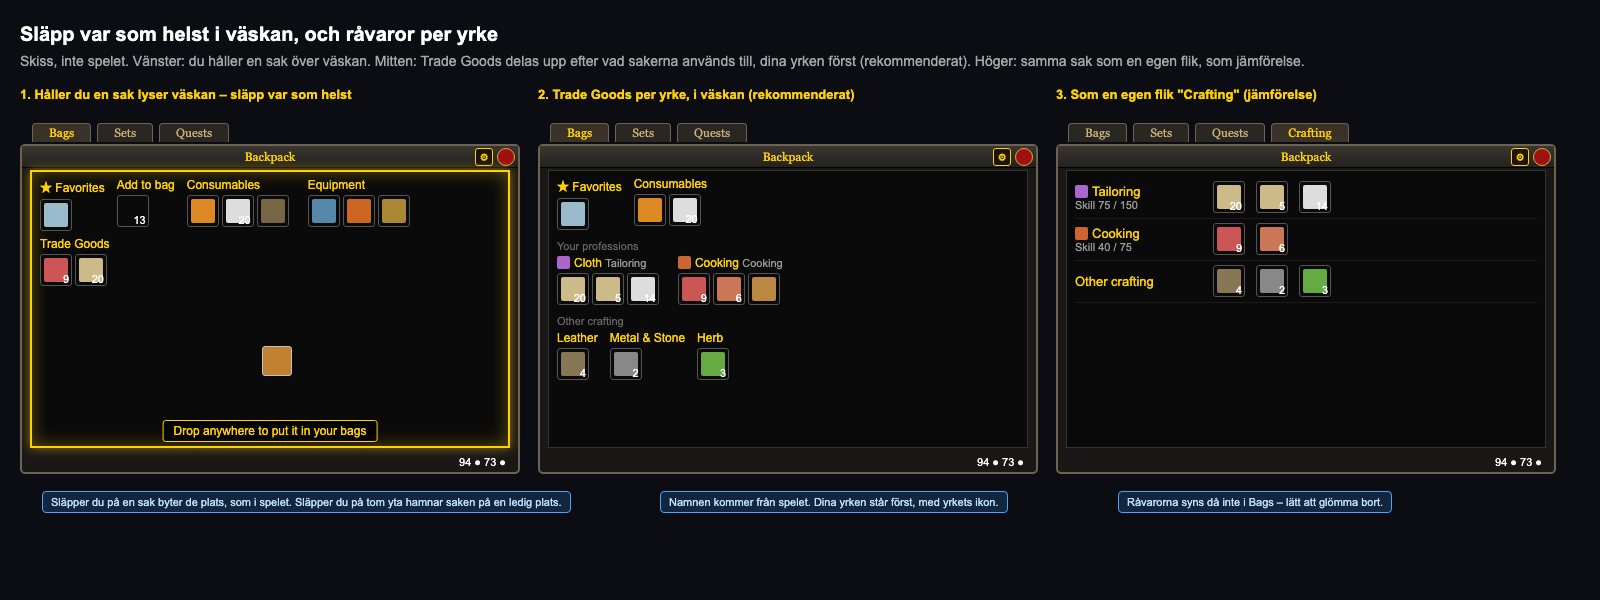
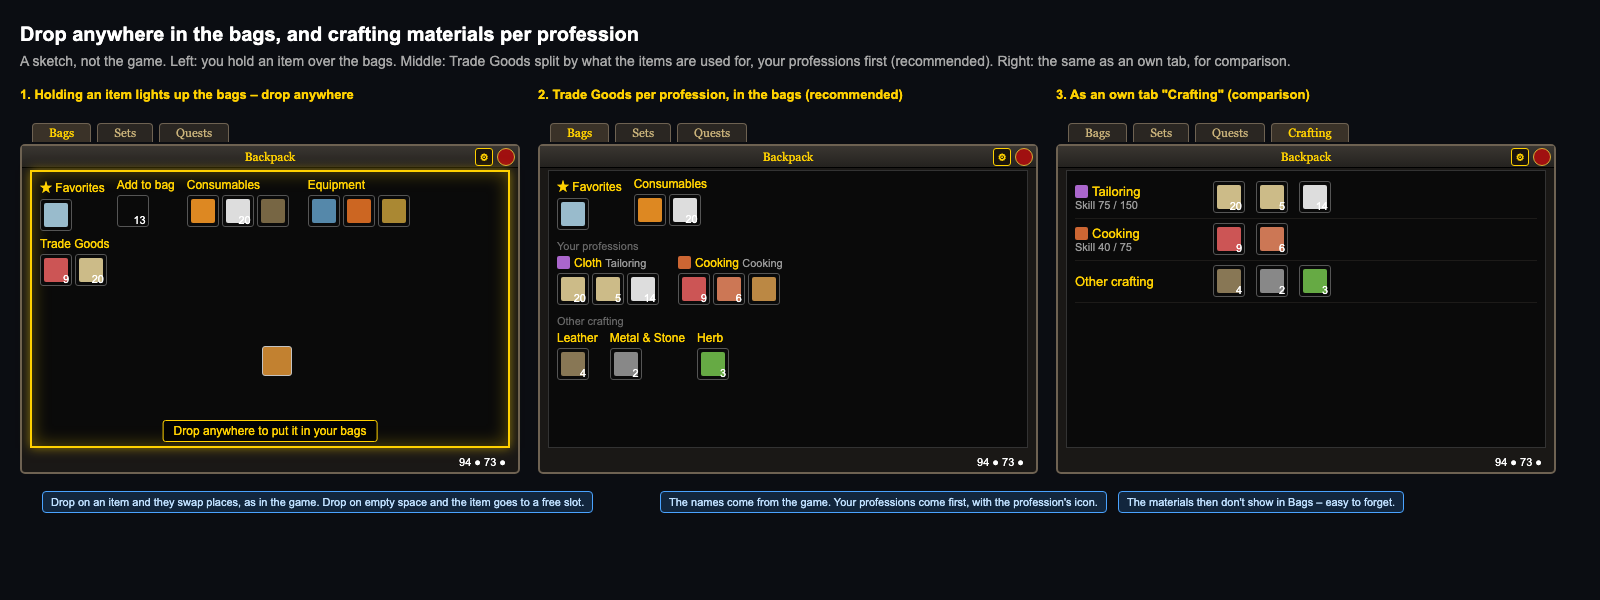
Translate .design/sketch-drop-and-crafting to English (#7)

diff --git a/.design/sketch-drop-and-crafting.html b/.design/sketch-drop-and-crafting.html
@@ -1,4 +1,4 @@
-<!DOCTYPE html><html><head><meta charset="utf-8"><title>Tidy Pack – skiss: släpp var som helst och yrken</title>
+<!DOCTYPE html><html><head><meta charset="utf-8"><title>Tidy Pack – sketch: drop anywhere and professions</title>
 <style>
 *{box-sizing:border-box}body{margin:0;padding:20px;background:#0b0d12;color:#d8d8d8;font:14px/1.4 Arial,sans-serif;width:1560px}
 h1{font-size:20px;margin:0 0 4px;color:#fff}.n{color:#a8a8a8;margin:0 0 14px;max-width:1450px}
@@ -20,11 +20,11 @@ h1{font-size:20px;margin:0 0 4px;color:#fff}.n{color:#a8a8a8;margin:0 0 14px;max
 .sep{color:#666;font:11px Arial;margin:4px 0 4px}
 .rowp{display:flex;align-items:center;gap:8px;height:42px;border-bottom:1px solid #1d1b19}.rowp .nm{font:13px Arial;color:#ffd100;width:130px}.rowp .nm small{display:block;color:#9a9a9a;font-size:11px}
 </style></head><body>
-<h1>Släpp var som helst i väskan, och råvaror per yrke</h1>
-<p class="n">Skiss, inte spelet. Vänster: du håller en sak över väskan. Mitten: Trade Goods delas upp efter vad sakerna används till, dina yrken först (rekommenderat). Höger: samma sak som en egen flik, som jämförelse.</p>
+<h1>Drop anywhere in the bags, and crafting materials per profession</h1>
+<p class="n">A sketch, not the game. Left: you hold an item over the bags. Middle: Trade Goods split by what the items are used for, your professions first (recommended). Right: the same as an own tab, for comparison.</p>
 <div class="row">
 
-<div class="col"><h2>1. Håller du en sak lyser väskan – släpp var som helst</h2><div class="bag">
+<div class="col"><h2>1. Holding an item lights up the bags – drop anywhere</h2><div class="bag">
 <div class="tabs"><div class="tab on">Bags</div><div class="tab">Sets</div><div class="tab">Quests</div></div>
 <div class="t">Backpack<div class="g">⚙</div><div class="x"></div></div>
 <div class="in glow">
@@ -34,10 +34,10 @@ h1{font-size:20px;margin:0 0 4px;color:#fff}.n{color:#a8a8a8;margin:0 0 14px;max
 </div><div class="money">94 ● 73 ●</div>
 <div class="cur" style="left:240px;top:200px"></div>
 <div class="lab">Drop anywhere to put it in your bags</div>
-<div class="call" style="left:20px;top:345px">Släpper du på en sak byter de plats, som i spelet. Släpper du på tom yta hamnar saken på en ledig plats.</div>
+<div class="call" style="left:20px;top:345px">Drop on an item and they swap places, as in the game. Drop on empty space and the item goes to a free slot.</div>
 </div></div>
 
-<div class="col"><h2>2. Trade Goods per yrke, i väskan (rekommenderat)</h2><div class="bag">
+<div class="col"><h2>2. Trade Goods per profession, in the bags (recommended)</h2><div class="bag">
 <div class="tabs"><div class="tab on">Bags</div><div class="tab">Sets</div><div class="tab">Quests</div></div>
 <div class="t">Backpack<div class="g">⚙</div><div class="x"></div></div>
 <div class="in">
@@ -48,10 +48,10 @@ h1{font-size:20px;margin:0 0 4px;color:#fff}.n{color:#a8a8a8;margin:0 0 14px;max
 <div class="sep">Other crafting</div>
 <div class="gr"><b>Leather</b><span class="sl"><i style="background:#875"></i><s>4</s></span></div><div class="gr"><b>Metal &amp; Stone</b><span class="sl"><i style="background:#888"></i><s>2</s></span></div><div class="gr"><b>Herb</b><span class="sl"><i style="background:#6a4"></i><s>3</s></span></div>
 </div><div class="money">94 ● 73 ●</div>
-<div class="call" style="left:120px;top:345px">Namnen kommer från spelet. Dina yrken står först, med yrkets ikon.</div>
+<div class="call" style="left:120px;top:345px">The names come from the game. Your professions come first, with the profession's icon.</div>
 </div></div>
 
-<div class="col"><h2>3. Som en egen flik "Crafting" (jämförelse)</h2><div class="bag">
+<div class="col"><h2>3. As an own tab "Crafting" (comparison)</h2><div class="bag">
 <div class="tabs"><div class="tab">Bags</div><div class="tab">Sets</div><div class="tab">Quests</div><div class="tab on">Crafting</div></div>
 <div class="t">Backpack<div class="g">⚙</div><div class="x"></div></div>
 <div class="in">
@@ -59,7 +59,7 @@ h1{font-size:20px;margin:0 0 4px;color:#fff}.n{color:#a8a8a8;margin:0 0 14px;max
 <div class="rowp"><span class="nm"><span class="pi" style="background:#c63"></span>Cooking<small>Skill 40 / 75</small></span><span class="sl"><i style="background:#c55"></i><s>9</s></span><span class="sl"><i style="background:#c75"></i><s>6</s></span></div>
 <div class="rowp"><span class="nm">Other crafting</span><span class="sl"><i style="background:#875"></i><s>4</s></span><span class="sl"><i style="background:#888"></i><s>2</s></span><span class="sl"><i style="background:#6a4"></i><s>3</s></span></div>
 </div><div class="money">94 ● 73 ●</div>
-<div class="call" style="left:60px;top:345px">Råvarorna syns då inte i Bags – lätt att glömma bort.</div>
+<div class="call" style="left:60px;top:345px">The materials then don't show in Bags – easy to forget.</div>
 </div></div>
 
 </div></body></html>
